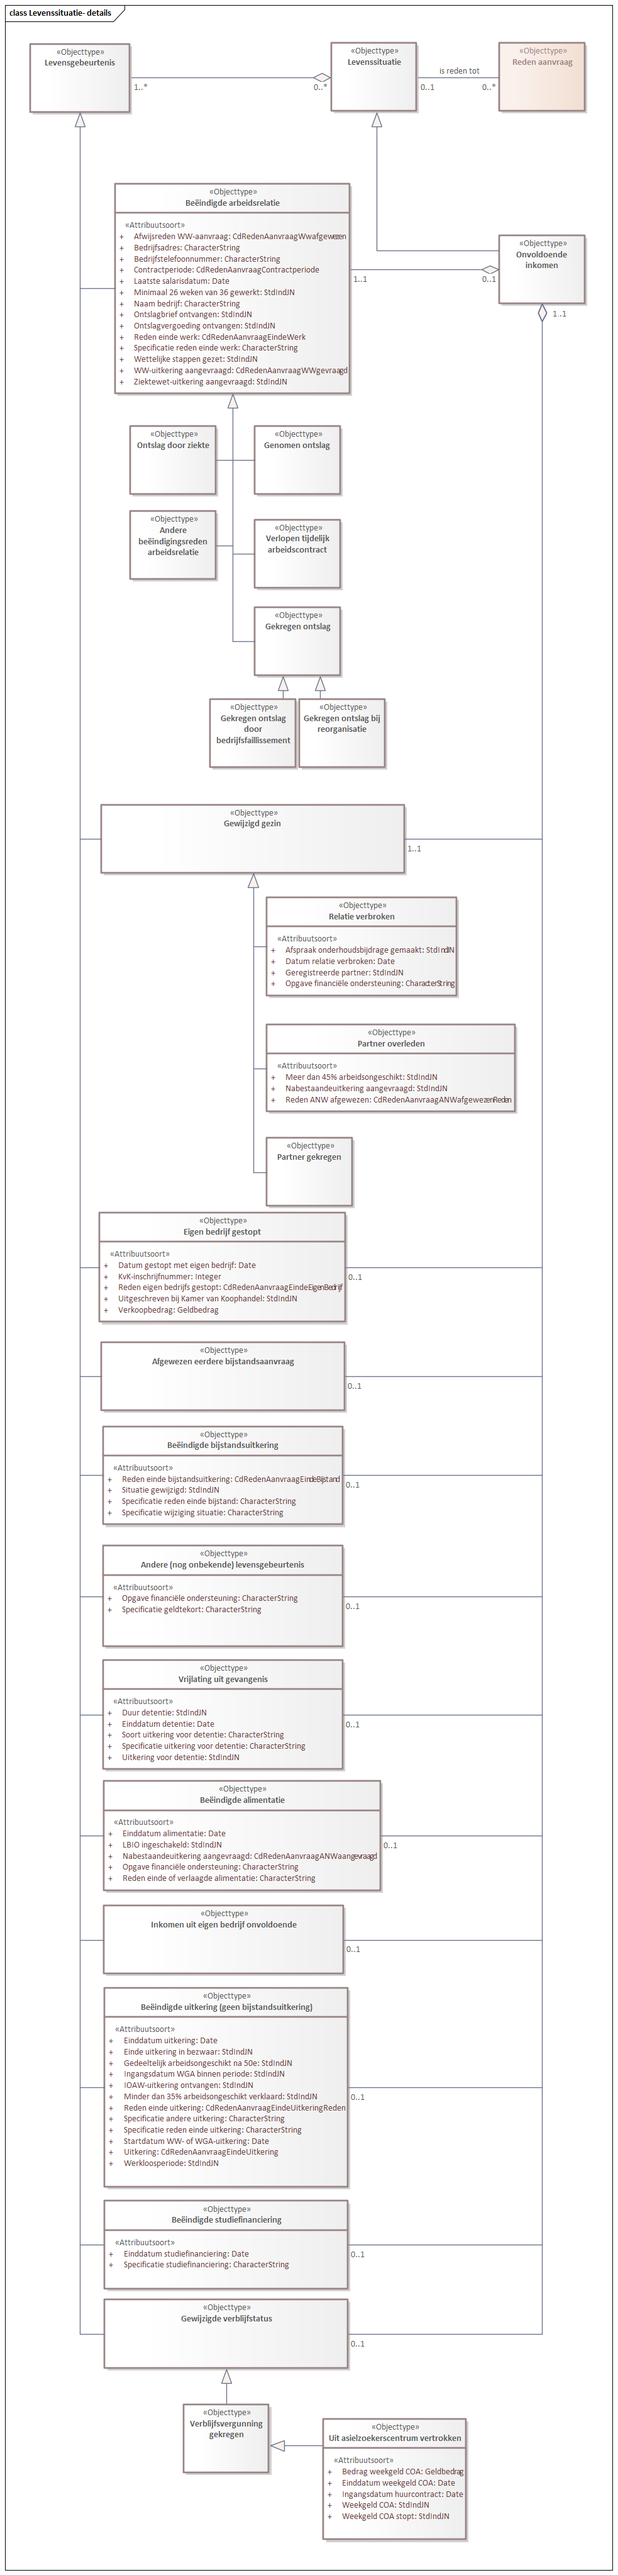
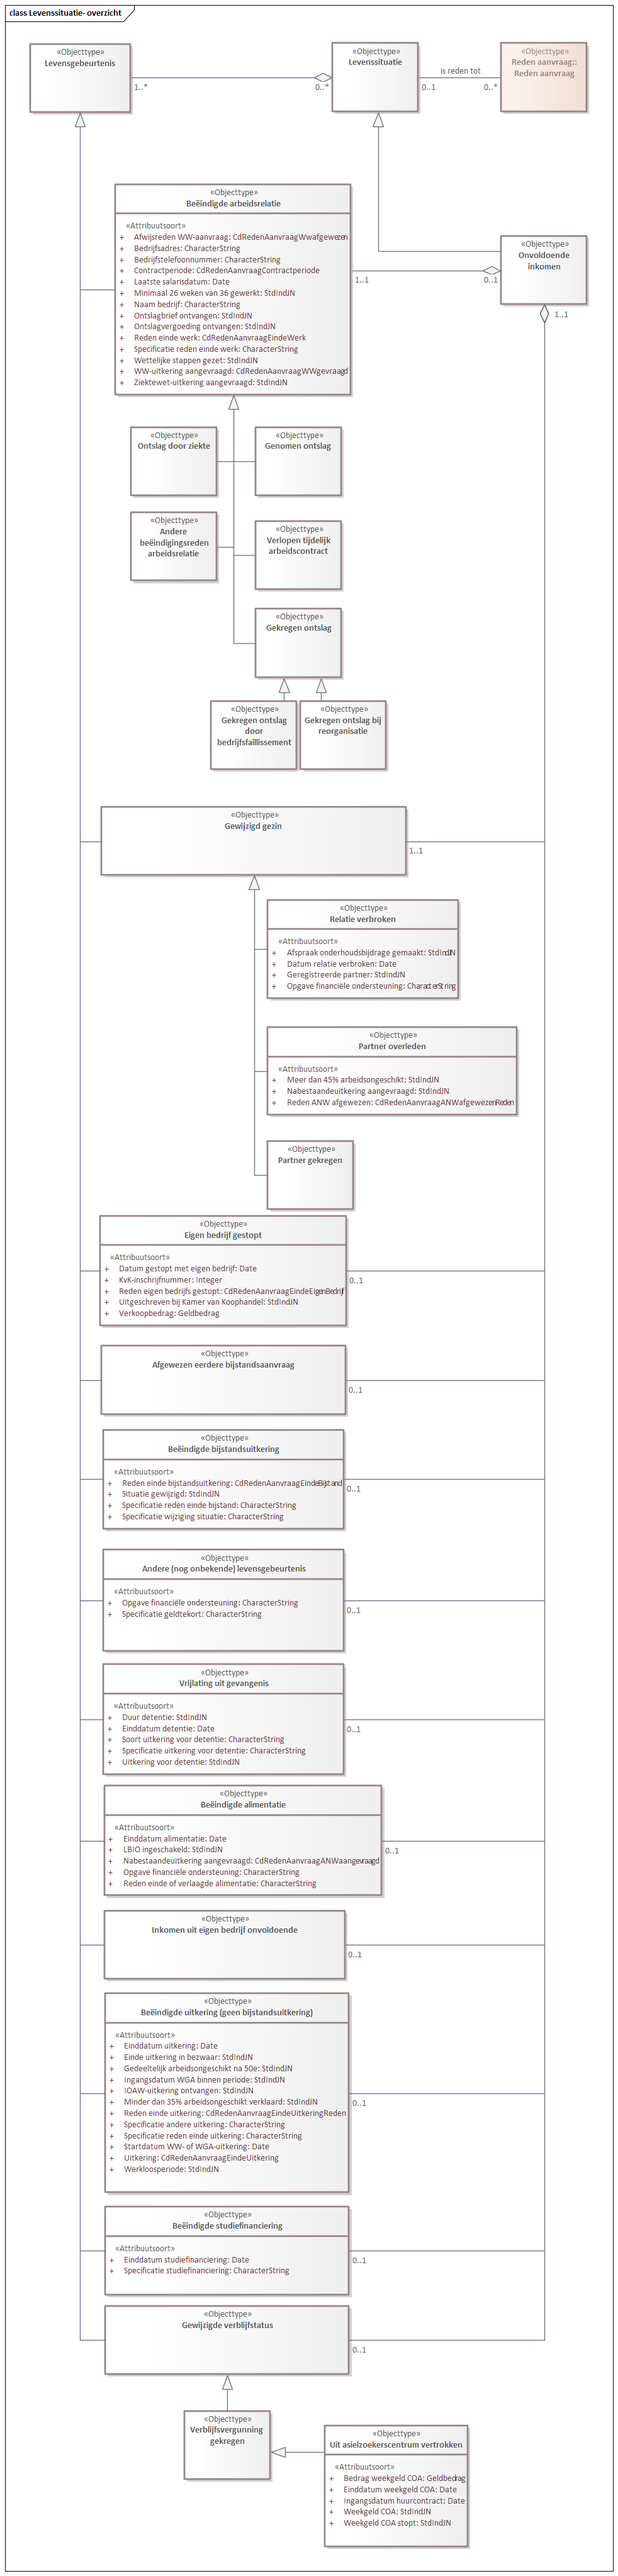
z

diff --git a/levenssituatie.html b/levenssituatie.html
@@ -1,6 +1,6 @@
-        <h2>Gegevensdefinitie</h2>
-            <!--SIM-InkomenModellen-1.0-1-20230101-20250110-131156 imvertor 4.0.0--></p>
-         <div class="imageinfo overview"><img src="Images/EAID_A3A2F68F_2D0A_423f_A394_E51DC2FDF130.png" usemap="#imagemap-EAID_A3A2F68F_2D0A_423f_A394_E51DC2FDF130" alt="Diagram: Levenssituatie- overzicht"><map name="imagemap-EAID_A3A2F68F_2D0A_423f_A394_E51DC2FDF130"><area shape="rect" alt="Reden aanvraag" coords="794,68,931,177" href="#global_class_Levenssituatie_Redenaanvraag"><area shape="rect" alt="Vrijlating uit gevangenis" coords="164,2638,546,2812" href="#global_class_Levenssituatie_Vrijlatinguitgevangenis"><area shape="rect" alt="Verlopen tijdelijk arbeidscontract" coords="405,826,542,935" href="#global_class_Levenssituatie_Verlopentijdelijkarbeidscontract"><area shape="rect" alt="Verblijfsvergunning gekregen" coords="292,3821,428,3930" href="#global_class_Levenssituatie_Verblijfsvergunninggekregen"><area shape="rect" alt="Uit asielzoekerscentrum vertrokken" coords="514,3844,742,4036" href="#global_class_Levenssituatie_Uitasielzoekerscentrumvertrokken"><area shape="rect" alt="Relatie verbroken" coords="424,1426,727,1583" href="#global_class_Levenssituatie_Relatieverbroken"><area shape="rect" alt="Partner overleden" coords="424,1628,820,1767" href="#global_class_Levenssituatie_Partneroverleden"><area shape="rect" alt="Partner gekregen" coords="424,1808,561,1917" href="#global_class_Levenssituatie_Partnergekregen"><area shape="rect" alt="Onvoldoende inkomen" coords="794,374,931,483" href="#global_class_Levenssituatie_Onvoldoendeinkomen"><area shape="rect" alt="Ontslag door ziekte" coords="207,677,344,786" href="#global_class_Levenssituatie_Ontslagdoorziekte"><area shape="rect" alt="Levenssituatie" coords="527,68,663,177" href="#global_class_Levenssituatie_Levenssituatie"><area shape="rect" alt="Levensgebeurtenis" coords="48,70,207,179" href="#global_class_Levenssituatie_Levensgebeurtenis"><area shape="rect" alt="Inkomen uit eigen bedrijf onvoldoende" coords="165,3028,547,3137" href="#global_class_Levenssituatie_Inkomenuiteigenbedrijfonvoldoende"><area shape="rect" alt="Gewijzigde verblijfstatus" coords="166,3654,554,3764" href="#global_class_Levenssituatie_Gewijzigdeverblijfstatus"><area shape="rect" alt="Genomen ontslag" coords="405,677,542,786" href="#global_class_Levenssituatie_Genomenontslag"><area shape="rect" alt="Gekregen ontslag door bedrijfsfaillissement" coords="334,1111,471,1220" href="#global_class_Levenssituatie_Gekregenontslagdoorbedrijfsfaillissement"><area shape="rect" alt="Gekregen ontslag bij reorganisatie" coords="476,1111,613,1220" href="#global_class_Levenssituatie_Gekregenontslagbijreorganisatie"><area shape="rect" alt="Gekregen ontslag" coords="405,965,542,1074" href="#global_class_Levenssituatie_Gekregenontslag"><area shape="rect" alt="Eigen bedrijf gestopt" coords="158,1927,550,2101" href="#global_class_Levenssituatie_Eigenbedrijfgestopt"><area shape="rect" alt="Beëindigde uitkering (geen bijstandsuitkering)" coords="166,3159,554,3476" href="#global_class_Levenssituatie_Beindigdeuitkeringgeenbijstandsuitkering"><area shape="rect" alt="Beëindigde studiefinanciering" coords="166,3497,554,3638" href="#global_class_Levenssituatie_Beindigdestudiefinanciering"><area shape="rect" alt="Beëindigde bijstandsuitkering" coords="164,2267,546,2423" href="#global_class_Levenssituatie_Beindigdebijstandsuitkering"><area shape="rect" alt="Beëindigde arbeidsrelatie" coords="183,292,557,626" href="#global_class_Levenssituatie_Beindigdearbeidsrelatie"><area shape="rect" alt="Beëindigde alimentatie" coords="165,2830,606,3005" href="#global_class_Levenssituatie_Beindigdealimentatie"><area shape="rect" alt="Andere beëindigingsreden arbeidsrelatie" coords="207,812,344,921" href="#global_class_Levenssituatie_Anderebeindigingsredenarbeidsrelatie"><area shape="rect" alt="Andere (nog onbekende) levensgebeurtenis" coords="164,2456,546,2617" href="#global_class_Levenssituatie_Anderenogonbekendelevensgebeurtenis"><area shape="rect" alt="Afgewezen eerdere bijstandsaanvraag" coords="161,2133,549,2242" href="#global_class_Levenssituatie_Afgewezeneerderebijstandsaanvraag"><area shape="rect" alt="Gewijzigd gezin" coords="161,1279,644,1388" href="#global_class_Levenssituatie_Gewijzigdgezin"></map><p><b>Levenssituatie- overzicht</b>
+         <p><b>Deze tekst is normatief.</b>
+            <!--SIM-InkomenModellen-1.0-1-20230101-20250616-111058 imvertor 4.0.0--></p>
+         <div class="imageinfo overview"><img src="Images/EAID_A3A2F68F_2D0A_423f_A394_E51DC2FDF130.png" usemap="#imagemap-EAID_A3A2F68F_2D0A_423f_A394_E51DC2FDF130" alt="Diagram: Levenssituatie- overzicht"><map name="imagemap-EAID_A3A2F68F_2D0A_423f_A394_E51DC2FDF130"><area shape="rect" alt="Reden aanvraag::Reden aanvraag" coords="796,68,933,178" href="#global_class_Levenssituatie_RedenaanvraagRedenaanvraag"><area shape="rect" alt="Vrijlating uit gevangenis" coords="164,2644,547,2820" href="#global_class_Levenssituatie_Vrijlatinguitgevangenis"><area shape="rect" alt="Verlopen tijdelijk arbeidscontract" coords="406,828,543,937" href="#global_class_Levenssituatie_Verlopentijdelijkarbeidscontract"><area shape="rect" alt="Verblijfsvergunning gekregen" coords="293,3831,430,3940" href="#global_class_Levenssituatie_Verblijfsvergunninggekregen"><area shape="rect" alt="Uit asielzoekerscentrum vertrokken" coords="516,3854,744,4047" href="#global_class_Levenssituatie_Uitasielzoekerscentrumvertrokken"><area shape="rect" alt="Relatie verbroken" coords="425,1430,729,1587" href="#global_class_Levenssituatie_Relatieverbroken"><area shape="rect" alt="Partner overleden" coords="425,1632,822,1772" href="#global_class_Levenssituatie_Partneroverleden"><area shape="rect" alt="Partner gekregen" coords="425,1813,562,1922" href="#global_class_Levenssituatie_Partnergekregen"><area shape="rect" alt="Onvoldoende inkomen" coords="796,375,933,484" href="#global_class_Levenssituatie_Onvoldoendeinkomen"><area shape="rect" alt="Ontslag door ziekte" coords="208,679,345,788" href="#global_class_Levenssituatie_Ontslagdoorziekte"><area shape="rect" alt="Levenssituatie" coords="528,68,665,178" href="#global_class_Levenssituatie_Levenssituatie"><area shape="rect" alt="Levensgebeurtenis" coords="48,70,208,179" href="#global_class_Levenssituatie_Levensgebeurtenis"><area shape="rect" alt="Inkomen uit eigen bedrijf onvoldoende" coords="166,3036,549,3145" href="#global_class_Levenssituatie_Inkomenuiteigenbedrijfonvoldoende"><area shape="rect" alt="Gewijzigde verblijfstatus" coords="167,3664,555,3773" href="#global_class_Levenssituatie_Gewijzigdeverblijfstatus"><area shape="rect" alt="Genomen ontslag" coords="406,679,543,788" href="#global_class_Levenssituatie_Genomenontslag"><area shape="rect" alt="Gekregen ontslag door bedrijfsfaillissement" coords="335,1114,472,1223" href="#global_class_Levenssituatie_Gekregenontslagdoorbedrijfsfaillissement"><area shape="rect" alt="Gekregen ontslag bij reorganisatie" coords="477,1114,614,1223" href="#global_class_Levenssituatie_Gekregenontslagbijreorganisatie"><area shape="rect" alt="Gekregen ontslag" coords="406,967,543,1077" href="#global_class_Levenssituatie_Gekregenontslag"><area shape="rect" alt="Eigen bedrijf gestopt" coords="159,1932,551,2107" href="#global_class_Levenssituatie_Eigenbedrijfgestopt"><area shape="rect" alt="Beëindigde uitkering (geen bijstandsuitkering)" coords="167,3167,555,3484" href="#global_class_Levenssituatie_Beindigdeuitkeringgeenbijstandsuitkering"><area shape="rect" alt="Beëindigde studiefinanciering" coords="167,3506,555,3647" href="#global_class_Levenssituatie_Beindigdestudiefinanciering"><area shape="rect" alt="Beëindigde bijstandsuitkering" coords="164,2272,547,2430" href="#global_class_Levenssituatie_Beindigdebijstandsuitkering"><area shape="rect" alt="Beëindigde arbeidsrelatie" coords="183,293,558,628" href="#global_class_Levenssituatie_Beindigdearbeidsrelatie"><area shape="rect" alt="Beëindigde alimentatie" coords="166,2837,607,3012" href="#global_class_Levenssituatie_Beindigdealimentatie"><area shape="rect" alt="Andere beëindigingsreden arbeidsrelatie" coords="208,814,345,923" href="#global_class_Levenssituatie_Anderebeindigingsredenarbeidsrelatie"><area shape="rect" alt="Andere (nog onbekende) levensgebeurtenis" coords="164,2462,547,2624" href="#global_class_Levenssituatie_Anderenogonbekendelevensgebeurtenis"><area shape="rect" alt="Afgewezen eerdere bijstandsaanvraag" coords="161,2138,550,2248" href="#global_class_Levenssituatie_Afgewezeneerderebijstandsaanvraag"><area shape="rect" alt="Gewijzigd gezin" coords="161,1282,646,1391" href="#global_class_Levenssituatie_Gewijzigdgezin"></map><p><b>Levenssituatie- overzicht</b>
                
                <p></p>
                </p>
@@ -1588,8 +1588,8 @@
                
                </section>
             
-            <section id="global_class_Levenssituatie_Redenaanvraag">
-               <h4>   Reden aanvraag</h4>
+            <section id="global_class_Levenssituatie_RedenaanvraagRedenaanvraag">
+               <h4>   Reden aanvraag::Reden aanvraag</h4>
                
                <table style="width: 100%;">
                   <colgroup style="width: 30%;"></colgroup>
@@ -1597,7 +1597,7 @@
                   <tbody>
                      <tr>
                         <th>Naam</th>
-                        <td>Reden aanvraag</td>
+                        <td>Reden aanvraag::Reden aanvraag</td>
                      </tr>
                      <tr>
                         <th>Herkomst</th>
@@ -1638,10 +1638,10 @@
                      </tr>
                      <tr>
                         <td>
-                           Reden aanvraag
+                           Reden aanvraag::Reden aanvraag
                            [ 0 .. * ]
                            
-                           <a class="link" href="#detail_association_Levenssituatie_Redenaanvraag_isredentot">is reden tot</a>
+                           <a class="link" href="#detail_association_Levenssituatie_RedenaanvraagRedenaanvraag_isredentot">is reden tot</a>
                            
                            
                            <a class="link" href="#global_class_Levenssituatie_Levenssituatie">Levenssituatie</a>
@@ -2758,11 +2758,11 @@
                      <tr>
                         <td>
                            
-                           <a class="link" href="#global_class_Levenssituatie_Redenaanvraag">Reden aanvraag</a>
+                           <a class="link" href="#global_class_Levenssituatie_RedenaanvraagRedenaanvraag">Reden aanvraag::Reden aanvraag</a>
                            
                            [ 0 .. * ]
                            
-                           <a class="link" href="#detail_association_Levenssituatie_Redenaanvraag_isredentot">is reden tot</a>
+                           <a class="link" href="#detail_association_Levenssituatie_RedenaanvraagRedenaanvraag_isredentot">is reden tot</a>
                            
                            Levenssituatie
                            [ 0 .. 1 ]
@@ -3049,21 +3049,21 @@
                         </tr>
                         <tr>
                            <td>
-                              <a class="link" href="#detail_attribute_Levenssituatie_Geldbedrag_Som">Som</a>
-                              </td>
-                           <td></td>
-                           <td>
-                              <a class="external-link" href="https://docs.geostandaarden.nl/mim/def-st-mim-20220217/#primitive-datatypes">Real</a>
-                              </td>
-                           <td>1</td>
-                        </tr>
-                        <tr>
-                           <td>
                               <a class="link" href="#detail_attribute_Levenssituatie_Geldbedrag_Valuta">Valuta</a>
                               </td>
                            <td></td>
                            <td>
                               <a class="external-link" href="https://docs.geostandaarden.nl/mim/def-st-mim-20220217/#primitive-datatypes">CharacterString</a>
+                              </td>
+                           <td>1</td>
+                        </tr>
+                        <tr>
+                           <td>
+                              <a class="link" href="#detail_attribute_Levenssituatie_Geldbedrag_Som">Som</a>
+                              </td>
+                           <td></td>
+                           <td>
+                              <a class="external-link" href="https://docs.geostandaarden.nl/mim/def-st-mim-20220217/#primitive-datatypes">Real</a>
                               </td>
                            <td>1</td>
                         </tr>
@@ -5557,11 +5557,11 @@
                      </section>
                   </section>
                
-               <section id="detail_class_Levenssituatie_Redenaanvraag">
-                  <h5>   Reden aanvraag</h5>
+               <section id="detail_class_Levenssituatie_RedenaanvraagRedenaanvraag">
+                  <h5>   Reden aanvraag::Reden aanvraag</h5>
                   
-                  <section id="detail_association_Levenssituatie_Redenaanvraag_isredentot">
-                     <h6>Relatiesoort details  <a href="#global_class_Levenssituatie_Redenaanvraag">Reden aanvraag</a> is reden tot</h6>
+                  <section id="detail_association_Levenssituatie_RedenaanvraagRedenaanvraag_isredentot">
+                     <h6>Relatiesoort details  <a href="#global_class_Levenssituatie_RedenaanvraagRedenaanvraag">Reden aanvraag::Reden aanvraag</a> is reden tot</h6>
                      
                      <table style="width: 100%;">
                         <colgroup style="width: 30%;"></colgroup>
@@ -8054,47 +8054,6 @@
                <section id="detail_class_Levenssituatie_Geldbedrag">
                   <h5>Gestructureerd datatype   Geldbedrag</h5>
                   
-                  <section id="detail_attribute_Levenssituatie_Geldbedrag_Som">
-                     <h6>Data element  <a href="#global_class_Levenssituatie_Geldbedrag">Geldbedrag</a> Som</h6>
-                     
-                     <table style="width: 100%;">
-                        <colgroup style="width: 30%;"></colgroup>
-                        <colgroup style="width: 70%;"></colgroup>
-                        <tbody>
-                           <tr>
-                              <th>Naam</th>
-                              <td>Som</td>
-                           </tr>
-                           <tr>
-                              <th>Herkomst</th>
-                              <td> </td>
-                           </tr>
-                           <tr>
-                              <th>Definitie</th>
-                              <td> </td>
-                           </tr>
-                           <tr>
-                              <th>Herkomst definitie</th>
-                              <td> </td>
-                           </tr>
-                           <tr>
-                              <th>Indicatie kardinaliteit</th>
-                              <td>1</td>
-                           </tr>
-                           <tr>
-                              <th>Formaat</th>
-                              <td>
-                                 <a class="external-link" href="https://docs.geostandaarden.nl/mim/def-st-mim-20220217/#primitive-datatypes">Real</a>
-                                 </td>
-                           </tr>
-                           <tr>
-                              <th>Patroon</th>
-                              <td> </td>
-                           </tr>
-                        </tbody>
-                     </table>
-                     </section>
-                  
                   <section id="detail_attribute_Levenssituatie_Geldbedrag_Valuta">
                      <h6>Data element  <a href="#global_class_Levenssituatie_Geldbedrag">Geldbedrag</a> Valuta</h6>
                      
@@ -8126,6 +8085,47 @@
                               <th>Formaat</th>
                               <td>
                                  <a class="external-link" href="https://docs.geostandaarden.nl/mim/def-st-mim-20220217/#primitive-datatypes">CharacterString</a>
+                                 </td>
+                           </tr>
+                           <tr>
+                              <th>Patroon</th>
+                              <td> </td>
+                           </tr>
+                        </tbody>
+                     </table>
+                     </section>
+                  
+                  <section id="detail_attribute_Levenssituatie_Geldbedrag_Som">
+                     <h6>Data element  <a href="#global_class_Levenssituatie_Geldbedrag">Geldbedrag</a> Som</h6>
+                     
+                     <table style="width: 100%;">
+                        <colgroup style="width: 30%;"></colgroup>
+                        <colgroup style="width: 70%;"></colgroup>
+                        <tbody>
+                           <tr>
+                              <th>Naam</th>
+                              <td>Som</td>
+                           </tr>
+                           <tr>
+                              <th>Herkomst</th>
+                              <td> </td>
+                           </tr>
+                           <tr>
+                              <th>Definitie</th>
+                              <td> </td>
+                           </tr>
+                           <tr>
+                              <th>Herkomst definitie</th>
+                              <td> </td>
+                           </tr>
+                           <tr>
+                              <th>Indicatie kardinaliteit</th>
+                              <td>1</td>
+                           </tr>
+                           <tr>
+                              <th>Formaat</th>
+                              <td>
+                                 <a class="external-link" href="https://docs.geostandaarden.nl/mim/def-st-mim-20220217/#primitive-datatypes">Real</a>
                                  </td>
                            </tr>
                            <tr>
